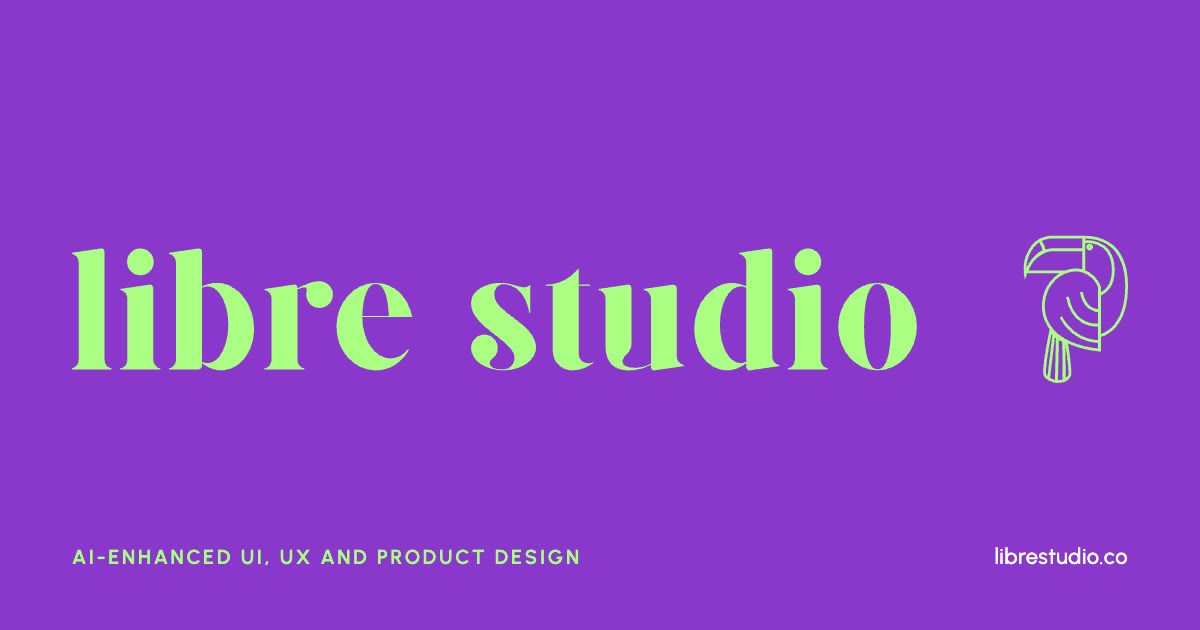
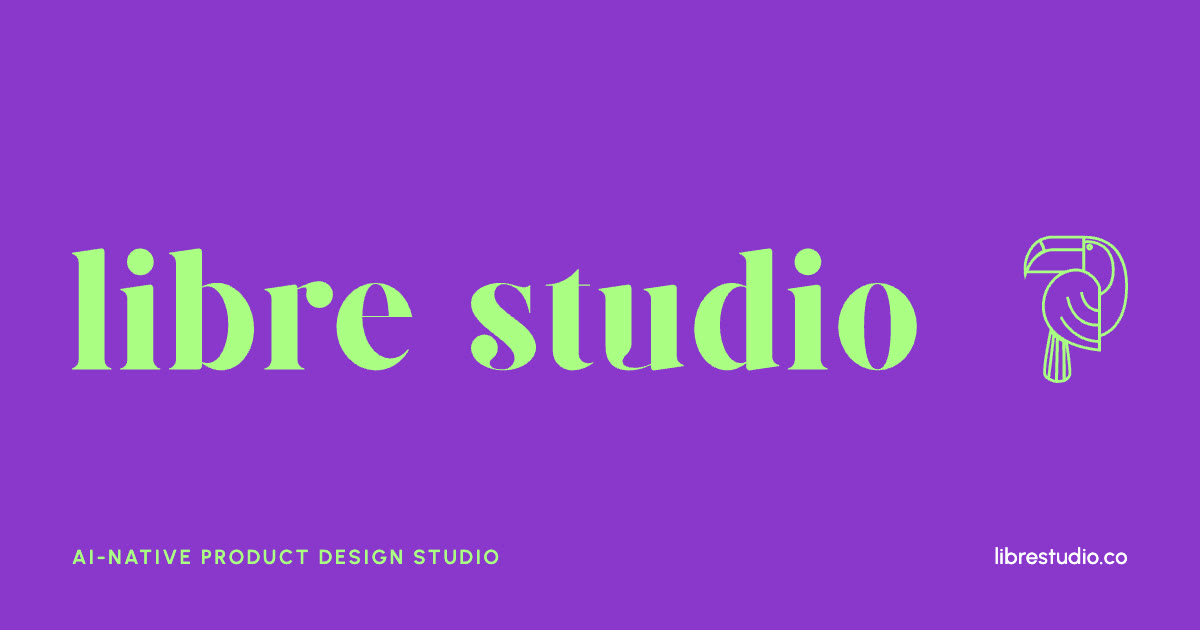
Positioning: AI-native product design studio, from early idea to build-ready product; drop B2B SaaS; share image line

Changed region(s): [[0.0925, 0.8746, 0.4933, 0.9048]]

diff --git a/README.md b/README.md
@@ -1,6 +1,6 @@
 # librestudio.co
 
-The website of [Libre Studio](https://librestudio.co), a remote product design studio for startups and B2B SaaS teams. Designed in Figma, built by hand in plain HTML, CSS and JavaScript with [Claude Code](https://claude.com/claude-code), with a human reviewing every step.
+The website of [Libre Studio](https://librestudio.co), an AI-native product design studio for startups. Designed in Figma, built by hand in plain HTML, CSS and JavaScript with [Claude Code](https://claude.com/claude-code), with a human reviewing every step.
 
 ![Landing page](docs/landing.jpg)
 
